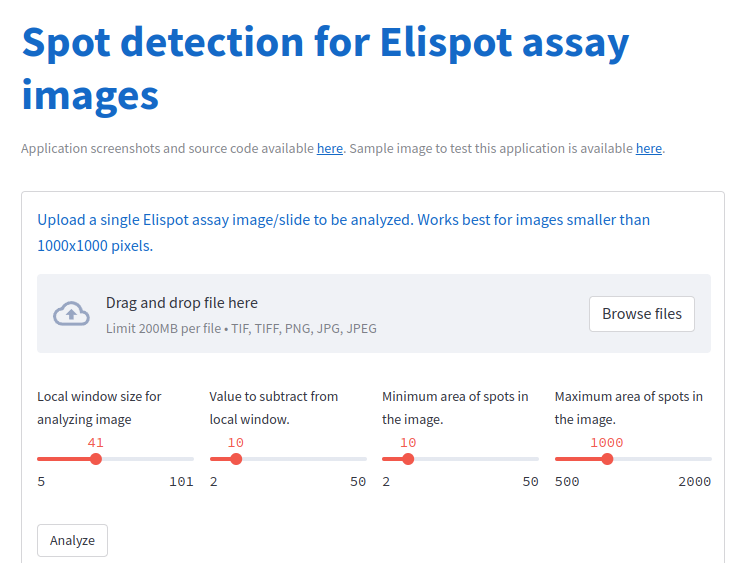
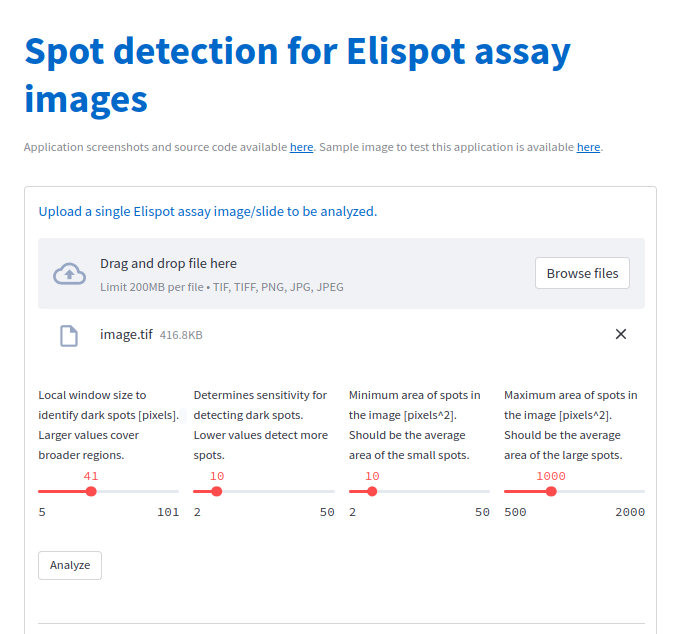
Add files via upload

diff --git a/PyElispotAnalysis_StreamlitApp.py b/PyElispotAnalysis_StreamlitApp.py
@@ -25,7 +25,7 @@ from io import BytesIO
 
 from cv2 import MORPH_OPEN, morphologyEx, resize
 import numpy as np
-from skimage.measure import label
+from skimage.measure import label, regionprops
 
 import sys
 # Don't generate the __pycache__ folder locally
@@ -77,7 +77,7 @@ st.markdown("")
 with st.form(key = 'form1', clear_on_submit = False):
 
 	# Add some text explaining what the user should do next
-	st.markdown(':blue[Upload a single Elispot assay image/slide to be analyzed. Works best for images smaller than 1000x1000 pixels.]')
+	st.markdown(':blue[Upload a single Elispot assay image/slide to be analyzed.]')
 
 	# Add a file uploader to allow the user to upload an image file
 	uploaded_file = st.file_uploader("Upload a file", type = ["tif", "tiff", "png", "jpg", "jpeg"], accept_multiple_files = False, label_visibility = 'collapsed')
@@ -90,25 +90,25 @@ with st.form(key = 'form1', clear_on_submit = False):
 
 	with left_column:
 
-		st.slider('Local window size for analyzing image', min_value = 5, max_value = 101, value = 41, step = 2, format = '%d', label_visibility = "visible", key = '-BlockSizeKey-')
+		st.slider('Local window size to identify dark spots [pixels]. `\n`Larger values cover broader regions.', min_value = 5, max_value = 101, value = 41, step = 2, format = '%d', label_visibility = "visible", key = '-BlockSizeKey-')
 
 		BlockSize = int(st.session_state['-BlockSizeKey-'])
 
 	with middle_column1:
 
-		st.slider('Value to subtract from local window.', min_value = 2, max_value = 50, value = 10, step = 2, format = '%d', label_visibility = "visible", key = '-ConstantKey-')
+		st.slider('Determines sensitivity for detecting dark spots. Lower values detect more spots.', min_value = 2, max_value = 50, value = 10, step = 2, format = '%d', label_visibility = "visible", key = '-ConstantKey-')
 
 		Constant = int(st.session_state['-ConstantKey-'])
 
 	with middle_column2:
 
-		st.slider('Minimum area of spots in the image.', min_value = 2, max_value = 50, value = 10, step = 2, format = '%d', label_visibility = "visible", key = '-MinimumAreaKey-')
+		st.slider('Minimum area of spots in the image [pixels^2]. Should be the average area of the small spots.', min_value = 2, max_value = 50, value = 10, step = 2, format = '%d', label_visibility = "visible", key = '-MinimumAreaKey-')
 
 		MinimumAreaKey = int(st.session_state['-MinimumAreaKey-'])
 
 	with right_column:
 
-		st.slider('Maximum area of spots in the image.', min_value = 500, max_value = 2000, value = 1000, step = 100, format = '%d', label_visibility = "visible", key = '-MaximumAreaKey-')
+		st.slider('Maximum area of spots in the image [pixels^2]. Should be the average area of the large spots.', min_value = 500, max_value = 2000, value = 1000, step = 100, format = '%d', label_visibility = "visible", key = '-MaximumAreaKey-')
 
 		MaximumAreaKey = int(st.session_state['-MaximumAreaKey-'])
 
@@ -133,7 +133,7 @@ with st.form(key = 'form1', clear_on_submit = False):
 		img_scaled = read_image(uploaded_file)
 
 		if img_scaled.shape[0] > allowed_image_size or img_scaled.shape[1] > allowed_image_size:
-			st.error('Uploaded image exceeds the allowed image size. Please reduce the image size.')
+			st.error('Uploaded image exceeds the allowed image size. Please reduce the image size to 1000x1000.')
 			st.stop()
 
 		# Resize image to suit the UI for image comparision
@@ -162,7 +162,7 @@ with st.form(key = 'form1', clear_on_submit = False):
 
 		# Use the counts_spots function to draw circles around detected spots
 		# Spots are determined based on the area and eccentricity criteria defined in the function
-		circled_image, counter = counts_spots(labeled_image, img_scaled, MinimumAreaKey, MaximumAreaKey)
+		circled_image, counter, filtered_labelled_image = counts_spots(labeled_image, img_scaled, MinimumAreaKey, MaximumAreaKey)
 
 		# # Generate the results figure
 		# result_figure = make_figure(img_scaled, circled_image, counter)
@@ -171,13 +171,44 @@ with st.form(key = 'form1', clear_on_submit = False):
 
 		st.markdown("""---""")
 
-		st.markdown("Results")
+		##############################################################
+
+		st.markdown(f'{counter} spots detected.')
+
+		image_comparison(img1=img_scaled, img2=circled_image, label1="", label2="")
 
 		##############################################################
 
-		image_comparison(img1=img_scaled, img2=circled_image, label1="Uploaded image", label2="Detected spots")
+		st.markdown("""---""")
 
-		st.markdown(f'{counter} spots detected.')
+		st.markdown("Detailed Report")
+
+		# Collect areas of all regions
+		areas = [region.area for region in regionprops(filtered_labelled_image)]
+		
+		# Plot histogram
+		fig = plt.figure(figsize=(7, 3), dpi = 200)
+		plt.hist(areas, bins='auto', color='tab:blue', alpha=0.8)
+		plt.title('Histogram of detected spots', fontsize=14, pad = 10)
+		plt.xlim(0, )
+		plt.ylim(0, )
+		plt.xlabel('Size of spots (Area)', fontsize=10)
+		plt.ylabel('Number of spots', fontsize=10)
+		plt.xticks(fontsize=8)
+		plt.yticks(fontsize=8)
+		plt.grid(True, which='both', linestyle='--', linewidth=0.5)
+
+		st.pyplot(fig)
+
+		##############################################################
+
+		st.markdown("""---""")
+
+		dataframe = create_dataframe(filtered_labelled_image)
+
+		st.dataframe(dataframe.style.format("{:.2f}"), use_container_width = True)
+
+		##############################################################
 
 		st.stop()
 		

diff --git a/modules.py b/modules.py
@@ -29,21 +29,22 @@ from cv2 import adaptiveThreshold, ADAPTIVE_THRESH_GAUSSIAN_C, THRESH_BINARY, cv
 from PIL import Image
 import numpy as np
 from skimage.measure import regionprops
+import pandas as pd
 
 ######################################################################################
 
 def resize_image(image, new_width=674):
 
-    # Calculate the aspect ratio
-    aspect_ratio = float(new_width) / image.shape[1]
-    
-    # Compute new height using aspect_ratio
-    new_height = int(image.shape[0] * aspect_ratio)
-    
-    # Resize the image
-    resized_image = resize(image, (new_width, new_height), interpolation=INTER_AREA)
-    
-    return resized_image
+	# Calculate the aspect ratio
+	aspect_ratio = float(new_width) / image.shape[1]
+	
+	# Compute new height using aspect_ratio
+	new_height = int(image.shape[0] * aspect_ratio)
+	
+	# Resize the image
+	resized_image = resize(image, (new_width, new_height), interpolation=INTER_AREA)
+	
+	return resized_image
 
 ######################################################################################
 
@@ -101,15 +102,19 @@ def counts_spots(labeled_image, grayscale_parent_image, min_area, max_area):
 	Returns:
 	- An image with the detected spots circled.
 	- Count of the detected spots.
+	- A labeled image with only the regions fitting the criteria.
 	"""
 	
-	# Get the RGB values for tab:red from tab10 colormap
-	rgb_color = plt.cm.tab10(1)
+	# Get the RGB values from tab10 colormap
+	rgb_color = plt.cm.tab10(8)
 	# Excluding the alpha value and scaling to [0, 255]
 	scaled_rgb = tuple([int(val * 255) for val in rgb_color[:-1]])
 
 	# Convert to a 3-channel image for drawing colored circles
 	circled_image = cvtColor(grayscale_parent_image, COLOR_GRAY2RGB)
+
+	# Create a blank labeled image to store filtered regions
+	filtered_labelled_image = np.zeros_like(labeled_image, dtype=np.uint16)
 
 	counter = 0
 	label_counter = 1
@@ -121,15 +126,59 @@ def counts_spots(labeled_image, grayscale_parent_image, min_area, max_area):
 			# Draw a circle around the spot using the equivalent diameter
 			y0, x0 = map(int, region.centroid)
 			radius = int(0.5 * region.equivalent_diameter)
-			circle(circled_image, (x0, y0), radius, scaled_rgb, 1)
+			circle(circled_image, (x0, y0), radius, scaled_rgb, 2)
 
 			# Assign the current label to the filtered labels image
 			coords = region.coords
-			label_counter = label_counter + 1
+			filtered_labelled_image[coords[:, 0], coords[:, 1]] = label_counter
+			label_counter += 1
 			
-			counter = counter + 1
+			counter += 1
 	
-	return circled_image, counter
+	return circled_image, counter, filtered_labelled_image
+
+######################################################################################
+
+def create_dataframe(filtered_labelled_image):
+	"""
+	Creates a pandas dataframe from the filtered labelled image.
+	
+	Args:
+	- filtered_labelled_image: A labeled image with regions of interest.
+	
+	Returns:
+	- df: Pandas DataFrame containing ID of the label, area, eccentricity, and equivalent diameter.
+	"""
+	
+	# Extract properties from regions
+	properties = regionprops(filtered_labelled_image)
+	
+	# Create lists to store the values
+	ids = []
+	areas = []
+	eccentricities = []
+	eq_diameters = []
+	
+	# Populate lists
+	for prop in properties:
+		if prop.label == 0:
+			continue  # Skip the region with label 0
+		ids.append(prop.label)
+		areas.append(prop.area)
+		eccentricities.append(prop.eccentricity)
+		eq_diameters.append(prop.equivalent_diameter)
+	
+	# Create DataFrame
+	data = {
+		'ID': ids,
+		'Area': areas,
+		'Equivalent Diameter': eq_diameters,
+		'Eccentricity': eccentricities
+		}
+
+	df = pd.DataFrame(data)
+	
+	return df
 
 ######################################################################################
 
